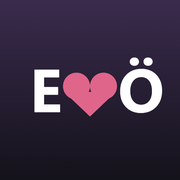
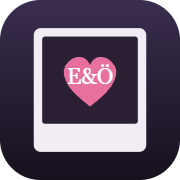
Site ikonu eklendi, uygulama ikonu yenilendi
Uygulama ikonu: polaroid çerçeve içinde E&Ö yazılı kalp — anı/fotoğraf
temasını taşıyor. Favicon ayrı ve sade (sadece kalp), çünkü polaroid +
yazı 32px'te okunmuyor.

Site ikonu daha önce hiç yoktu; SVG + 32/16px PNG yedeğiyle eklendi.
İkonların SVG kaynakları da repoda tutuluyor, yeniden üretilebilsin.

CineMory'nin kişisel isim içermeyen ikonu (film şeridi + kalp)
icon-cinemory.svg olarak hazır bekliyor — canlıya alırken devreye girer.

Closes #6

diff --git a/index.html b/index.html
@@ -25,6 +25,12 @@
   <link rel="manifest" href="manifest.json" />
   <meta name="theme-color" content="#141017" media="(prefers-color-scheme: dark)" />
   <meta name="theme-color" content="#faf4f0" media="(prefers-color-scheme: light)" />
+
+  <!-- Sekme ikonu: SVG'yi destekleyen tarayıcı onu kullanır, diğerleri PNG'ye düşer.
+       Küçük boyutta okunsun diye favicon sade (sadece kalp); uygulama ikonu detaylı. -->
+  <link rel="icon" href="favicon.svg" type="image/svg+xml" />
+  <link rel="icon" href="icons/favicon-32.png" sizes="32x32" type="image/png" />
+  <link rel="icon" href="icons/favicon-16.png" sizes="16x16" type="image/png" />
   <link rel="apple-touch-icon" href="icons/apple-touch-icon.png" />
   <meta name="apple-mobile-web-app-capable" content="yes" />
   <meta name="apple-mobile-web-app-status-bar-style" content="black-translucent" />

diff --git a/sw.js b/sw.js
@@ -1,7 +1,7 @@
 /* Uygulama kabuğunu (HTML/CSS/JS/ikonlar) önbelleğe alır.
    TMDB API isteklerine ve poster görsellerine hiç dokunmaz — onlar her zaman ağdan gelir. */
 
-const ONBELLEK_ADI = "cinemory-v46";
+const ONBELLEK_ADI = "cinemory-v47";
 
 const KABUK_DOSYALARI = [
   "./",
@@ -27,6 +27,9 @@ const KABUK_DOSYALARI = [
   "./icons/icon-512.png",
   "./icons/icon-maskable-512.png",
   "./icons/apple-touch-icon.png",
+  "./icons/favicon-32.png",
+  "./icons/favicon-16.png",
+  "./favicon.svg",
 ];
 
 self.addEventListener("install", (event) => {
